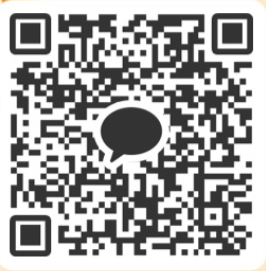
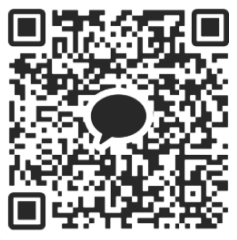
QR .png로 재수정
카카오qr 이미지가 너무 작음...

diff --git a/DB_01_01.html b/DB_01_01.html
@@ -522,14 +522,14 @@
                                         <h4>LINE</h4>
                                         <p>친구 추가 후 상담 가능</p>
                                     </div>
-                                    <img src="images/line_QR.jpg" alt="LINE QR Code" class="qr-code">
+                                    <img src="images/lineQR.png" alt="LINE QR Code" class="qr-code">
                                 </div>
                                 <div class="sns-item kakao">
                                     <div class="sns-text">
                                         <h4>Kakao Talk</h4>
                                         <p>채널 추가 후 상담 가능</p>
                                     </div>
-                                    <img src="images/kakao_QR.jpg" alt="Kakao Talk QR Code" class="qr-code">
+                                    <img src="images/kakaoQR.png" alt="Kakao Talk QR Code" class="qr-code">
                                 </div>
                             </div>
                         </div>
